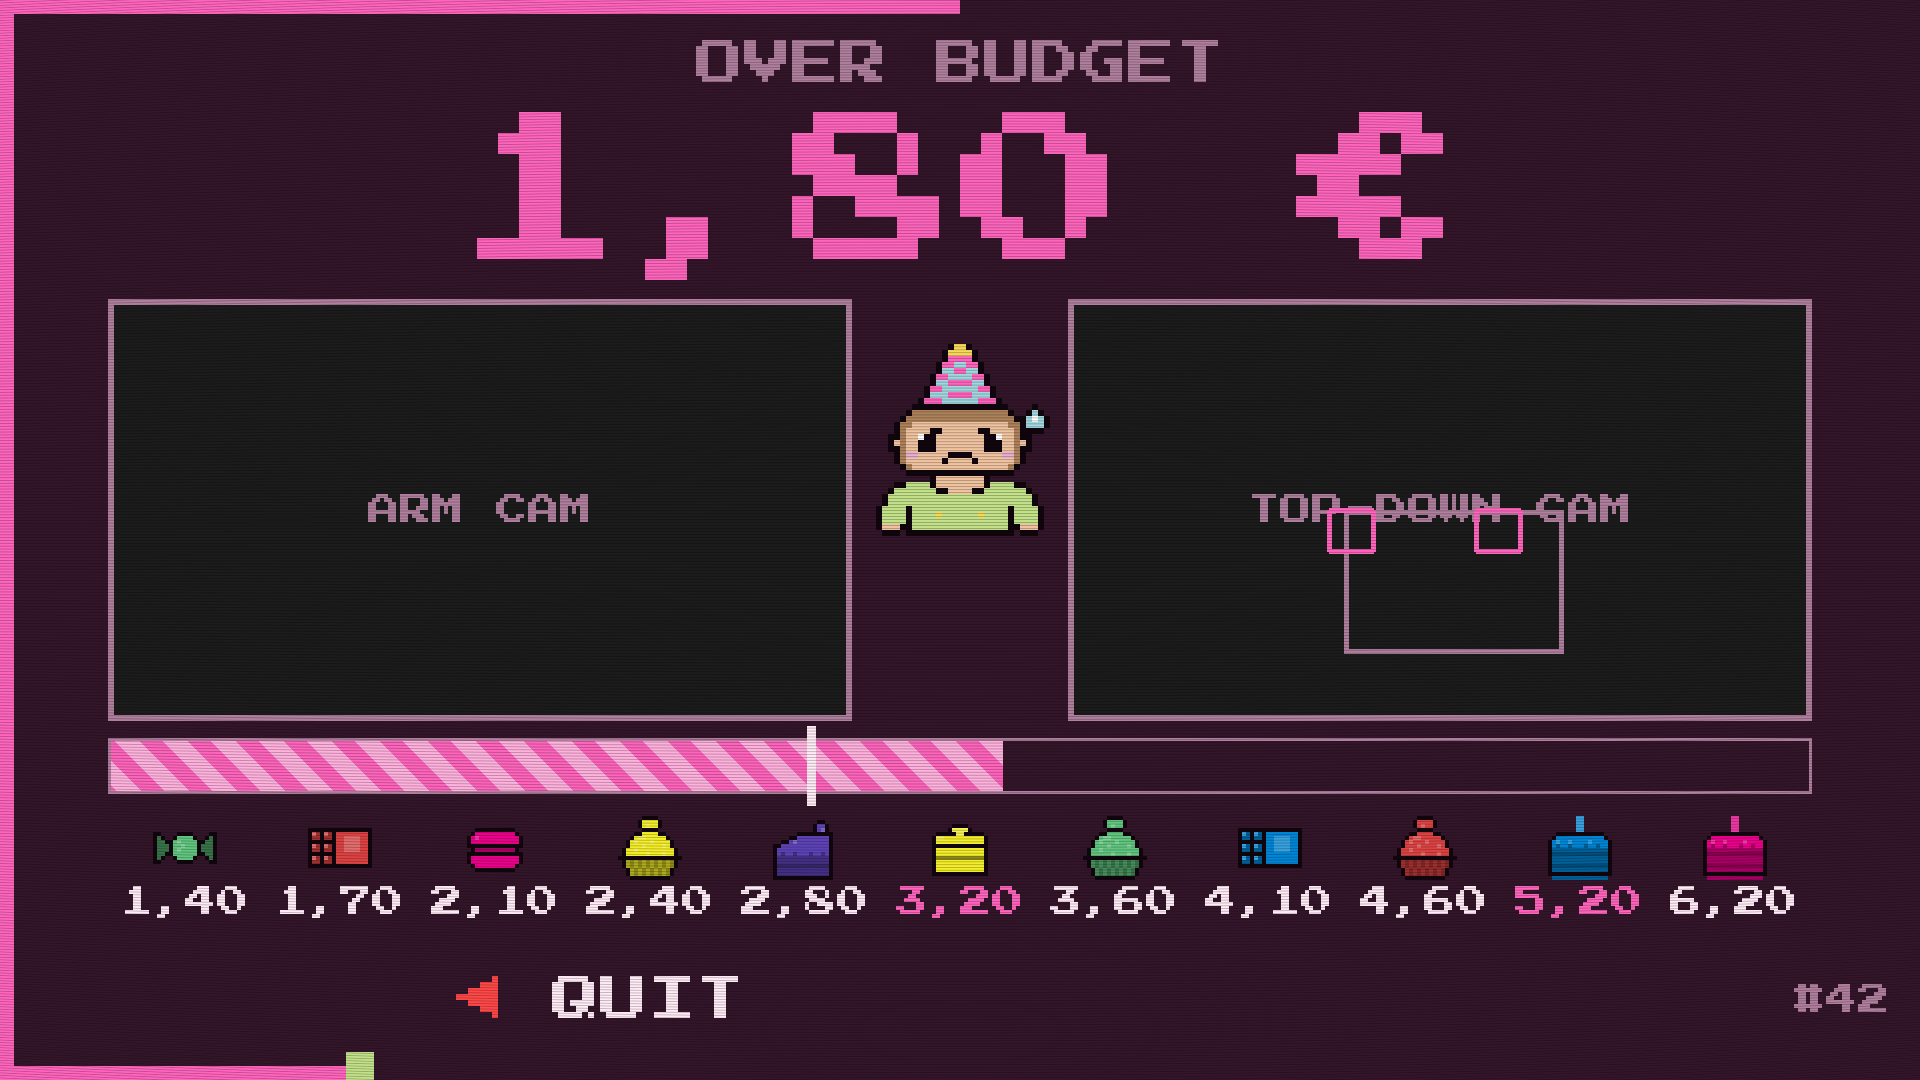
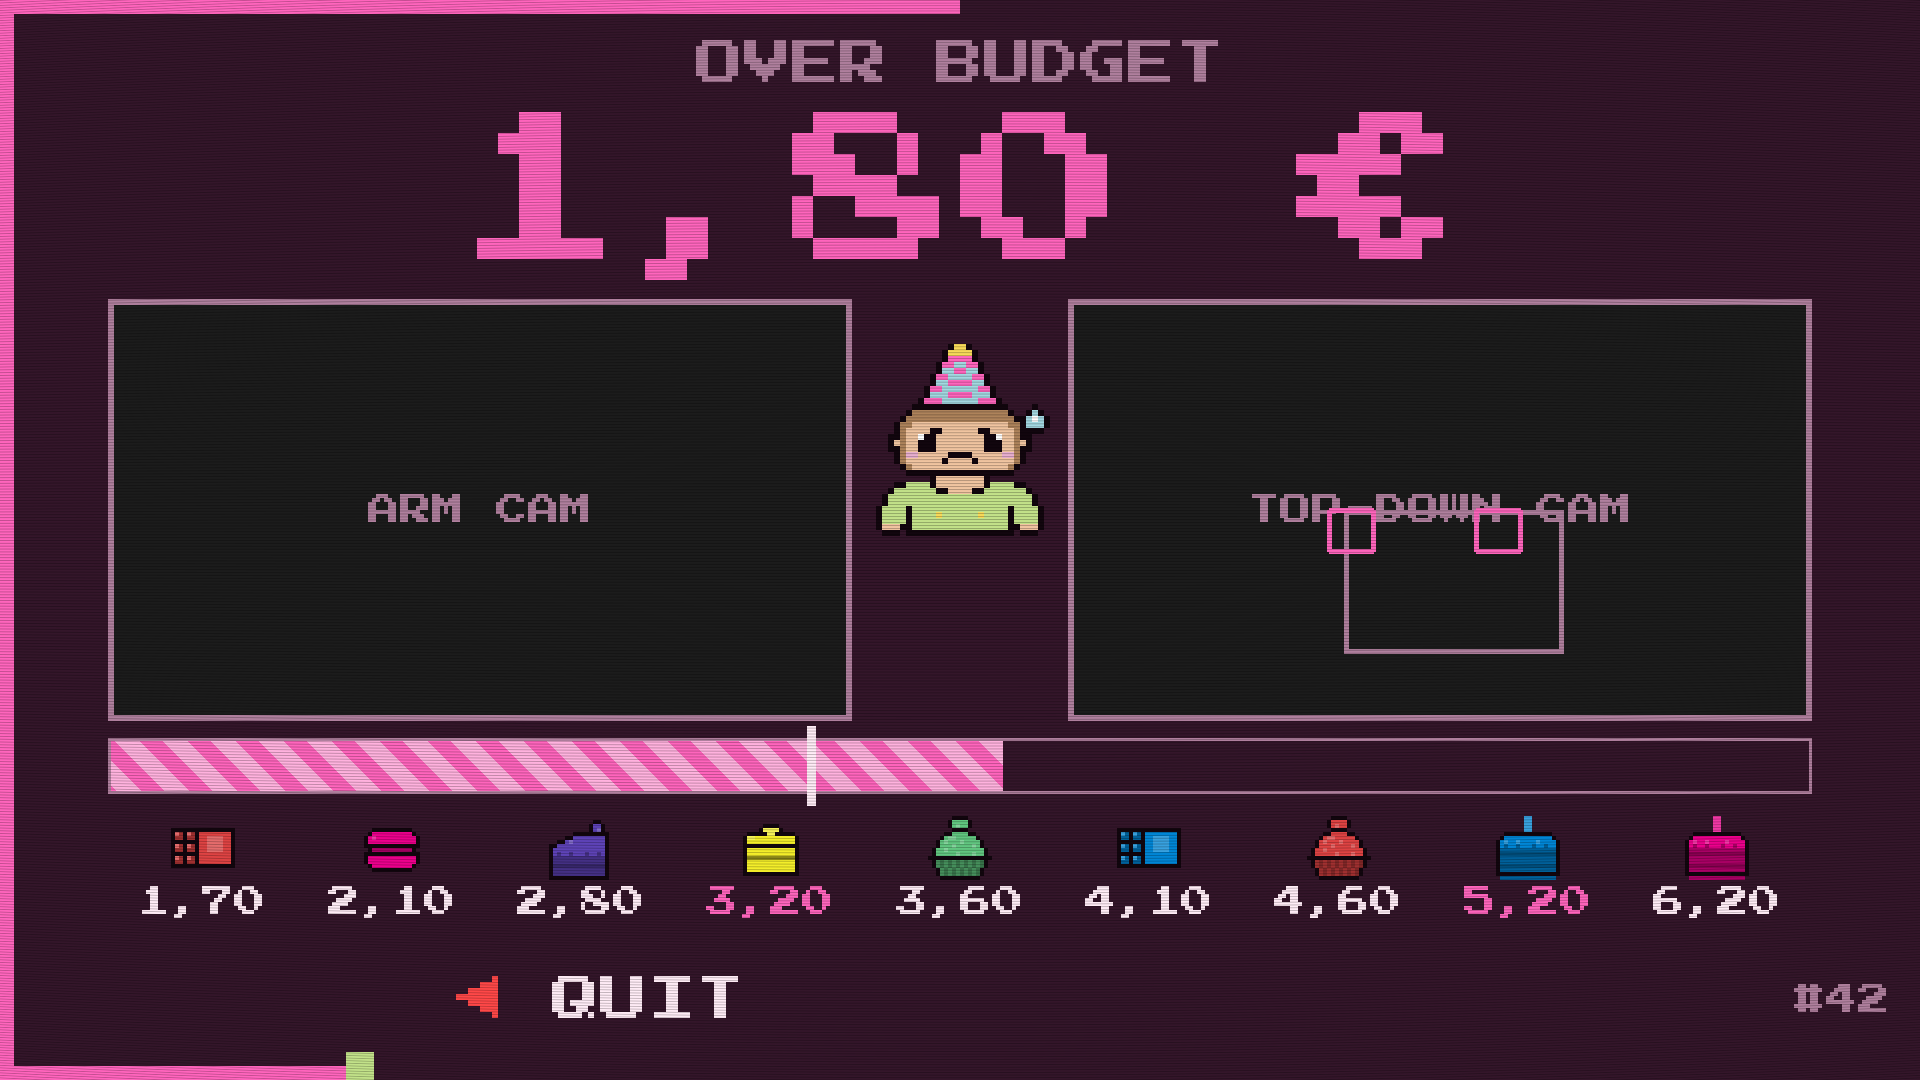
feat: price ladder on top during Oskar's order (panes stay, no clock), tutorial says the code must face the top camera

Changed region(s): [[0.0625, 0.7639, 0.9375, 0.8556]]

diff --git a/game/scenes.py b/game/scenes.py
@@ -776,6 +776,7 @@ class GameScene(SceneBase):
     SCALE = GAP_MAX + max(VALUES.values())
     GOAL_W, GOAL_OVER = 9, 12   # width and overhang of the goal line
     STRIP_Y = 848               # price strip: sprites here, prices below
+    LADDER_Y = 150              # order phase: the ladder on top, above the panes
     GUEST = (960, 440)          # the guest stands between the panes
     POP = (960, 610)            # ... and "+2,40" pops up under him
 
@@ -974,6 +975,15 @@ class GameScene(SceneBase):
                 color = BG
             draw(screen, f["tiny"], euro(VALUES[k], sign=False), x, self.STRIP_Y + 54, color)
 
+    def ladder(self, screen, f):
+        """The order screen: every treat big with its price, cheap to dear.
+        Full screen width, not the bar's; "small" prices ran into each other."""
+        for i, k in enumerate(sorted(VALUES, key=VALUES.get)):
+            x = 40 + (WIDTH - 80) * (i + 0.5) / len(VALUES)
+            stamp(screen, SPRITE[k], 5, x, self.LADDER_Y)
+            draw(screen, f["tiny"], euro(VALUES[k], sign=False), x,
+                 self.LADDER_Y + 92, WHITE)
+
     def _x(self, value):
         """Price -> x in the bar. Clamped so nothing runs out."""
         r = self.BAR
@@ -1006,8 +1016,16 @@ class GameScene(SceneBase):
         else:
             diff = self.target - self.total
             label, value = self.t("add" if diff > 0 else "over"), euro(abs(diff))
-        draw(screen, f["small"], label, 960, 64, GREY)
-        draw(screen, big, value, 960, 196, ACCENT)
+        if self.phase == "order":
+            # Oskar's order is the time to do the sums (29.9., booth ask):
+            # the price ladder takes the top, the budget shrinks to one line
+            # above it. The panes stay, the player maps where each treat
+            # lies. No fuse -- the clock only runs in "play".
+            draw(screen, f["small"], f"{label} {value}", 960, 44, ACCENT)
+            self.ladder(screen, f)
+        else:
+            draw(screen, f["small"], label, 960, 64, GREY)
+            draw(screen, big, value, 960, 196, ACCENT)
         tag(screen, f, self.player)
         if self.phase in ("order", "play"):
             stamp(screen, self.mood(), 6, *self.GUEST)

diff --git a/game/themes/sugar_rush.py b/game/themes/sugar_rush.py
@@ -67,7 +67,7 @@ TEXT = {
              "EVERY TREAT HAS ITS PRICE. THE BIGGER IT IS, THE MORE IT COSTS.",
         welcome="{name}, YOU'RE BACK! READY TO BEAT YOUR SCORE?",
         practice="PRACTICE", tut_head="1 TREAT ON THE TRAY",
-        tut="LET'S WARM UP FIRST. PUT ANY TREAT ON THE TRAY IN THE MIDDLE.",
+        tut="WARM-UP: PUT ANY TREAT ON THE TRAY, CODE FACING UP SO THE TOP CAMERA SEES IT.",
         tut_done="NICE! THAT ONE IS {price}. OH, HERE COMES A CUSTOMER!",
         skip="▶ SKIP", skip_ok="▶ AGAIN TO SKIP", quit="◀ QUIT", quit_ok="◀ AGAIN TO QUIT",
         order_head="BUDGET",
@@ -99,8 +99,8 @@ TEXT = {
         welcome="SCHÖN, DASS DU WIEDER DA BIST, {name}! KNACKST DU DEINEN "
                 "REKORD?",
         practice="PROBERUNDE", tut_head="1 SÜßIGKEIT AUFLEGEN",
-        tut="ERST MAL ZUM ÜBEN: LEG IRGENDEINE SÜßIGKEIT AUFS TABLETT IN "
-            "DER MITTE.",
+        tut="ZUM ÜBEN: LEG EINE SÜßIGKEIT AUFS TABLETT. CODE NACH OBEN "
+            "ZUR KAMERA!",
         tut_done="SUPER! DIE KOSTET {price}. OH, DA KOMMT SCHON KUNDSCHAFT!",
         skip="▶ ÜBERSPRINGEN", skip_ok="▶ NOCHMAL ZUM ÜBERSPRINGEN",
         quit="◀ ABBRECHEN",
